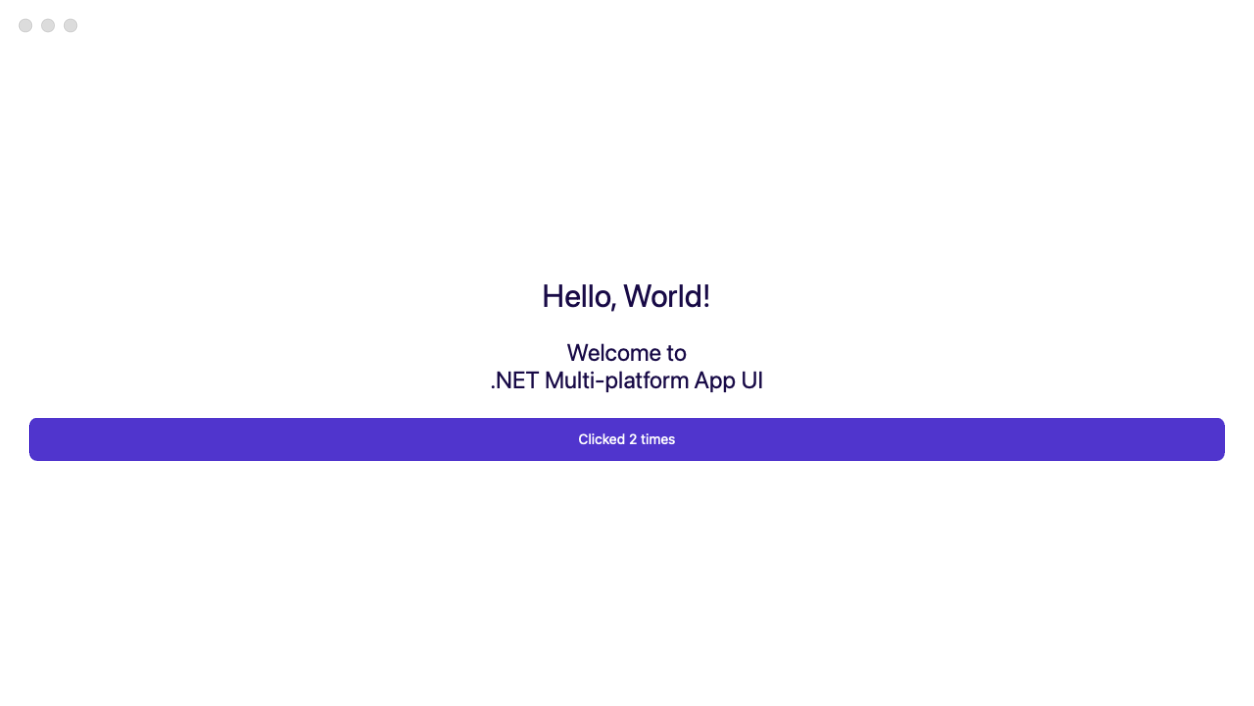
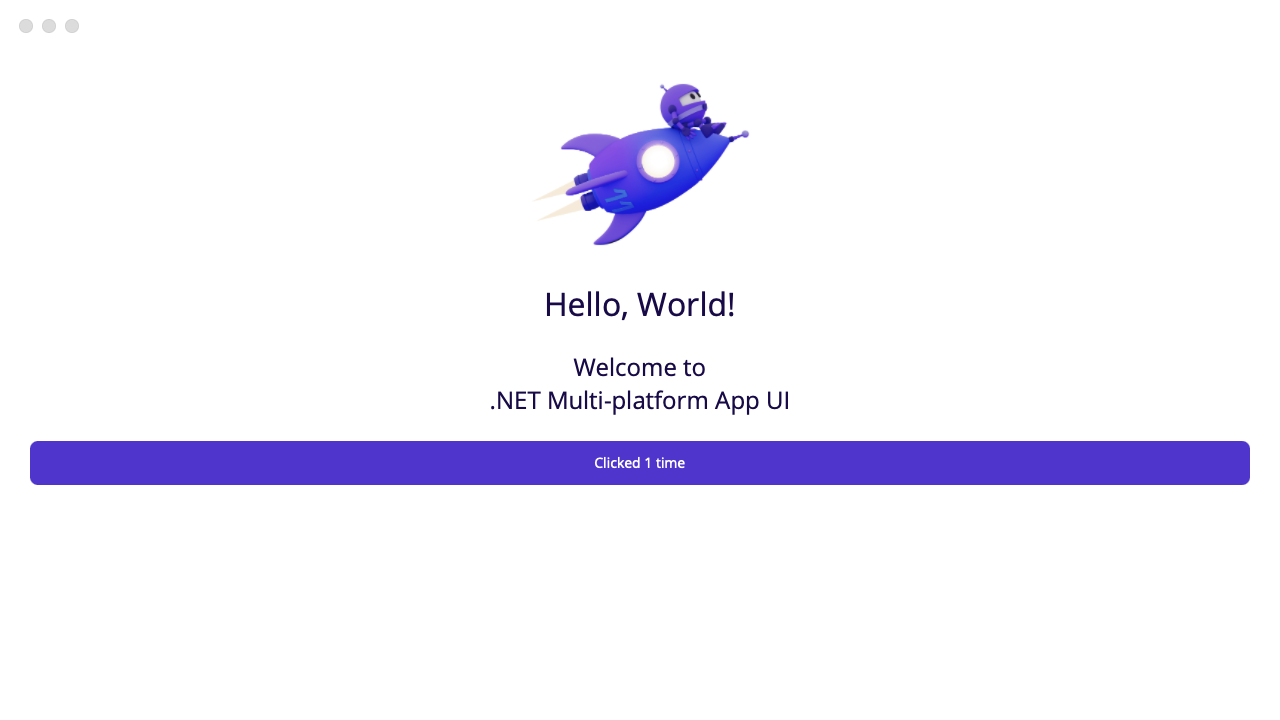
docs: macOS run verified with image and fonts (F14), screenshot updated

Changed region(s): [[0.0, 0.4674, 0.9952, 0.6856], [0.4354, 0.0935, 0.5909, 0.3428], [0.4043, 0.4051, 0.5909, 0.4363]]

diff --git a/docs/status.md b/docs/status.md
@@ -43,6 +43,10 @@ app bundle `bin/Debug/net11.0-macos/osx-arm64/MauiPlatforms.app` launches from t
   `ui tap --text "Click me"` succeeds twice, after which `ui query --type Button` reports `"Clicked 2 times"`.
 - The app log shows the backend's own diagnostics (`[WindowHandler.MapContent] page=AppShell, handler=ShellHandler`)
   and the agent start (`Agent started on port 10223`).
+- The first run had no `dotnet_bot.png` and used the system font: shared `MauiImage`/`MauiFont` items are not bundled
+  on this TFM (F14). With explicit `BundleResource` items the image and Open Sans render, as in the screenshot.
+- Two labs-side prerequisites for a local build: `-p:ValidateXcodeVersion=false` on Xcode 26.5 (F13) and
+  `DevFlowXamlSourceMapsEnabled=false` for Debug builds (F5). `eng/smoke-macos.sh` wraps the whole loop.
 
 ## Findings
 
@@ -159,6 +163,22 @@ workload, and the smallest concrete workload that carries them without extra pla
 (target `_ValidateXcodeVersion` in `Xamarin.Shared.Sdk.targets`). The GitHub `macos-26` runner has 26.6 so CI passes;
 Stepney has 26.5 and 26.2. Building with `-p:ValidateXcodeVersion=false` skips the check and the app builds, runs and
 passes DevFlow interaction on Xcode 26.5. Installing Xcode 26.6 (Xcodes.app is on the Mac) removes the need for the switch.
+
+### F14. On the AppKit head, `MauiImage` / `MauiFont` / `MauiAsset` never reach the app bundle
+
+The first macOS run rendered the labels and button but no `dotnet_bot.png`, and text fell back to the system font.
+`Contents/Resources` held only `AppIcon.icns`: the labs macOS targets (`Microsoft.Maui.Platforms.MacOS.targets`) only
+process `MauiIcon` (SVG → `.icns` via `sips`/`iconutil`), and MAUI's Resizetizer does not run for the `macos` TFM, so
+`MauiImage`/`MauiFont`/`MauiAsset` items are silently ignored. The backend looks for images in
+`<bundle>/Contents/Resources/Images` (`ImageHandler`) and pre-registers `*.ttf` from `.../Fonts` (`MacOSFontRegistrar`).
+
+The labs samples get away with it because their `Resources/` folder is physically inside the head project, where the
+macOS SDK's default `BundleResource` globbing picks it up (and `DevFlow.Sample.MacOS` adds an explicit `BundleResource`
+for the one file it shares). For a head that links a shared project, add `BundleResource` items with
+`Link="Resources\Images\…"` / `Link="Resources\Fonts\…"` (the SDK strips the leading `Resources\`), as
+`src/MauiPlatforms.MacOS/MauiPlatforms.MacOS.csproj` now does; after that the bundle contains `Images/dotnet_bot.png`,
+`Fonts/OpenSans-*.ttf`, `Raw/AboutAssets.txt` and both image and font render. Worth a docs note or targets support in
+the backend; not filed as an issue yet.
 
 ### F11. WSL distro age matters
 

diff --git a/README.md b/README.md
@@ -21,7 +21,7 @@ packages taken from nuget.org.
 | `MauiPlatforms.MacOS` | osx-arm64 | ✅ | ✅ | ✅ | Builds in CI (`macos-26`) and on an M-series Mac; renders the default app natively; DevFlow sees the whole page and taps the button ([details](docs/status.md)) |
 | `MauiPlatforms` (default app, WinUI) | win-arm64 | ✅ | ➖ | agent added | Windows TFM only; android/ios/maccatalyst need the full `maui` workload |
 
-| WPF backend, win-arm64 | GTK4 backend, linux-arm64 (WSL2, WSLg) | AppKit backend, osx-arm64 (after two DevFlow taps) |
+| WPF backend, win-arm64 | GTK4 backend, linux-arm64 (WSL2, WSLg) | AppKit backend, osx-arm64 (after a DevFlow tap) |
 | --- | --- | --- |
 | ![Default MAUI app on the WPF backend](docs/screenshots/wpf-win-arm64.png) | ![Default MAUI app on the GTK4 backend](docs/screenshots/gtk4-linux-arm64.png) | ![Default MAUI app on the AppKit backend](docs/screenshots/macos-osx-arm64.png) |
 
